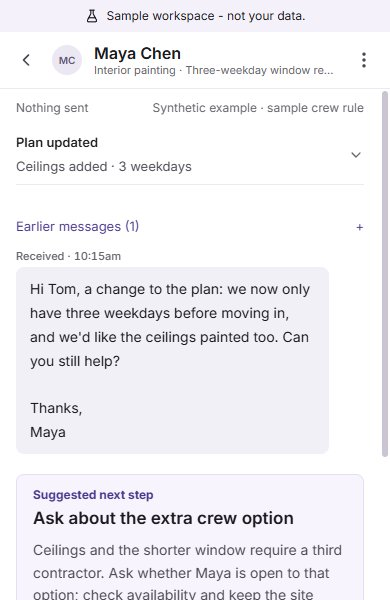
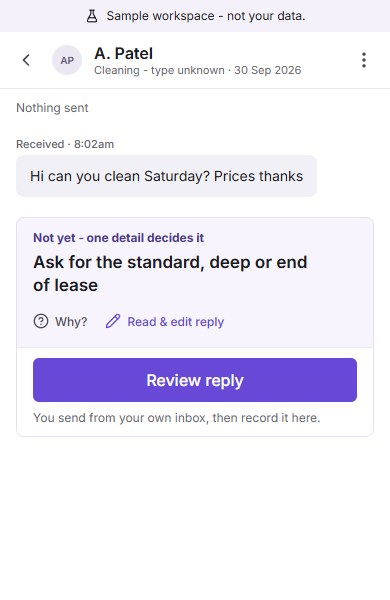
fix(site): recapture ui1 product screenshots from the current sample workspace
The prior August-era captures had gone stale again: Today, enquiry and
Business showed the pre-attention-pass wording instead of the current
"Your turn since", "Needs a detail" and Yes/No/Not yet verdict language, and
the enquiry crop no longer matched its own alt text. Recaptured all nine
files (desktop, mobile, mobile@2x) the same way as the last recapture: built
with auth enabled as in production, served with npm run preview, and loaded
each real app route through a same-origin iframe so demoMode stays true and
the sample fixtures render. Today shows the current "Start here" card
(Marcus Chen) and queue; the enquiry shot now shows A. Patel's "Needs a
detail" thread (one detail still blocking the price, with the prepared
reply) instead of the old Marcus Chen thread, which had since moved to a
"waiting on customer" state that no longer matched its caption. Business is
unchanged in substance (same services/pricing/policies list) but re-encoded
from the current build. Fixed the one stale caption this uncovered: the
homepage's ADHD-section alt text still named "Maya" from an old fixture
that predates the current sample workspace; the enquiry it now shows is
A. Patel's, so the alt no longer names a customer. Every other caption in
product-showcase.tsx, product-walkthrough.tsx and updates.tsx was checked
against the new screens and still holds.

diff --git a/src/routes/index.tsx b/src/routes/index.tsx
@@ -73,7 +73,7 @@ function Home() {
             <img
               src="/product/ui1/enquiry-mobile.jpg"
               srcSet={mobileCaptureSrcSet("enquiry")}
-              alt="One enquiry open on a phone in the sample workspace: Maya's message, what changed, and the suggested next step."
+              alt="One enquiry open on a phone in the sample workspace: their message, the detail still missing, and the suggested next step."
               width="390"
               height="600"
               loading="lazy"
